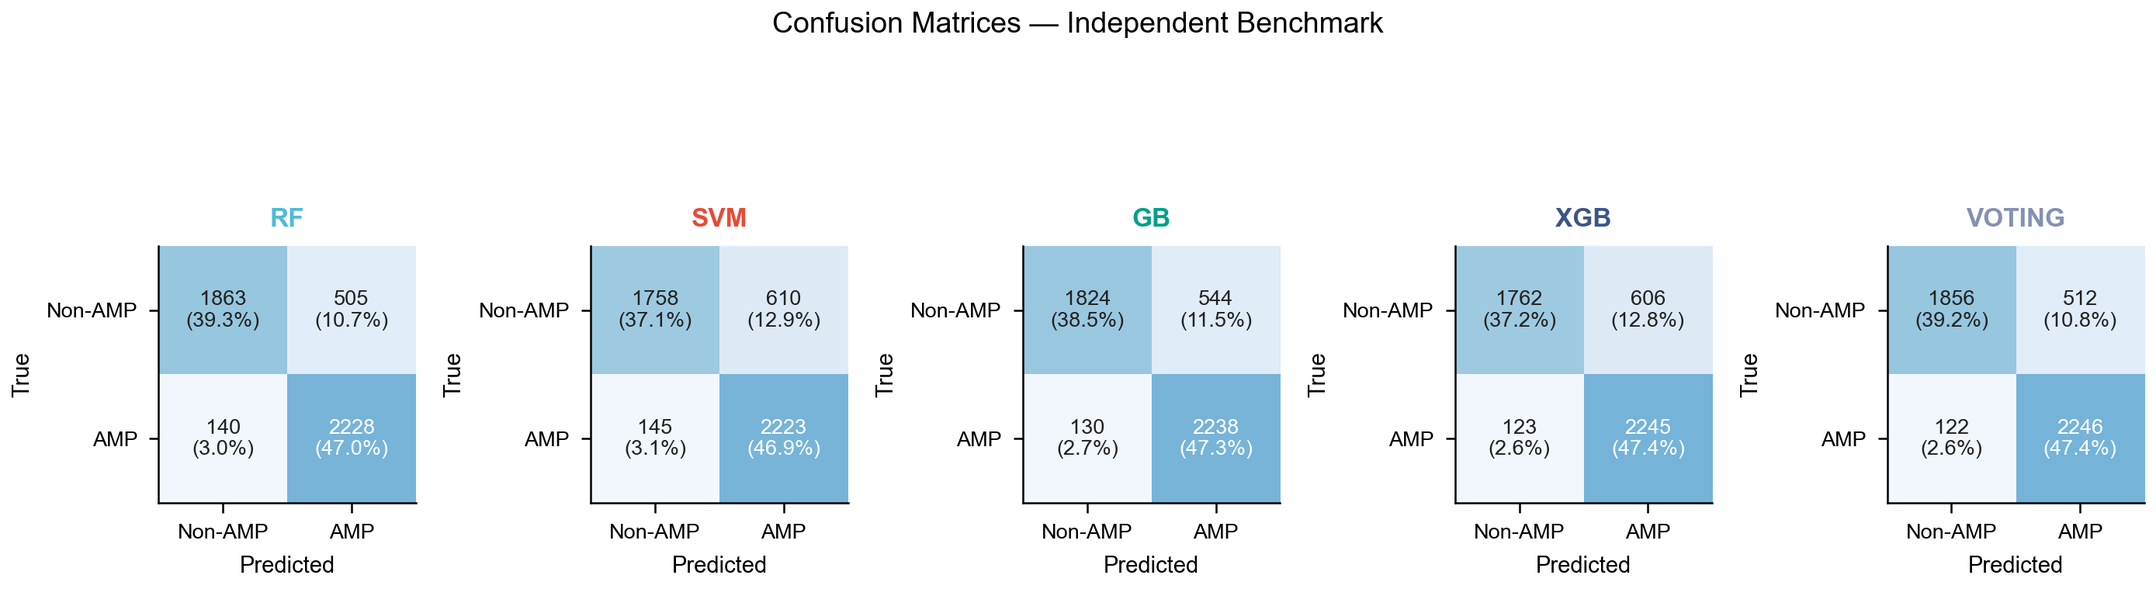
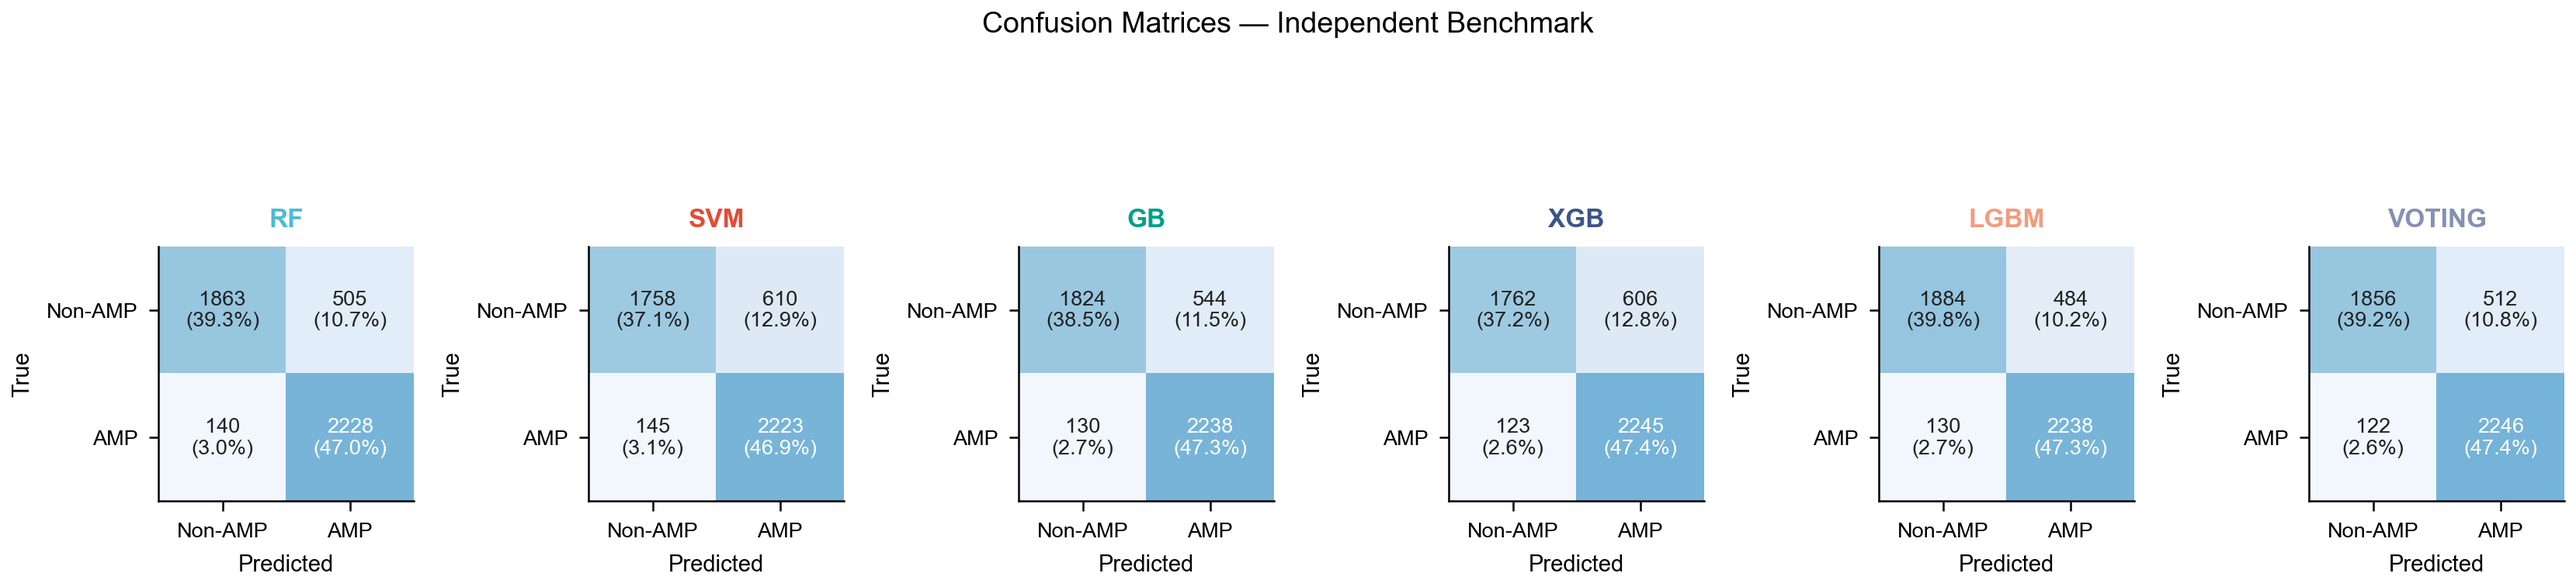
feat: add LGBM to benchmark; update Table 7 and figures

diff --git a/model_training/benchmark.py b/model_training/benchmark.py
@@ -90,6 +90,7 @@ COLORS = {
     "SVM":    "#E64B35",
     "GB":     "#00A087",
     "XGB":    "#3C5488",
+    "LGBM":   "#F39B7F",
     "VOTING": "#8491B4",
 }
 LINESTYLES = {
@@ -97,10 +98,11 @@ LINESTYLES = {
     "SVM":    (0, (5, 1)),
     "GB":     "-.",
     "XGB":    ":",
+    "LGBM":   (0, (3, 1, 1, 1)),
     "VOTING": (0, (1, 1)),
 }
 ALPHA = 0.85
-MODELS_ORDERED = ["RF", "SVM", "GB", "XGB", "VOTING"]
+MODELS_ORDERED = ["RF", "SVM", "GB", "XGB", "LGBM", "VOTING"]
 
 # ---------------------------------------------------------------------------
 # Utilities
@@ -232,6 +234,7 @@ SCALER_MAP = {
     "svm":    "std",
     "gb":     "robust",
     "xgb":    "robust",
+    "lgbm":   "robust",
     "voting": "raw",
 }
 

diff --git a/README.md b/README.md
@@ -448,9 +448,10 @@ Outputs saved to `benchmarking/`:
 | SVM | 0.9432 | 0.6947 | 0.8548 | 0.7847 | 0.9388 | 0.7424 | 0.47 |
 | GB | 0.9351 | 0.7266 | 0.8691 | 0.8045 | 0.9451 | 0.7703 | 0.55 |
 | XGB | 0.9300 | 0.7070 | 0.8603 | 0.7874 | 0.9481 | 0.7441 | 0.48 |
+| LGBM | 0.9480 | 0.7491 | 0.8794 | 0.8224 | 0.9449 | 0.7991 | 0.71 |
 | VOTING | 0.9503 | 0.7424 | 0.8763 | 0.8144 | 0.9485 | 0.7838 | 0.56 |
 
-The voting ensemble achieves the highest AUC-ROC (0.950) and MCC (0.742) on the independent benchmark. LGBM is not listed as a standalone entry here because it was not part of the original benchmark run; it contributes to the VOTING ensemble score. All models show a drop in MCC relative to the internal test set (0.695-0.742 vs. 0.839-0.859). This is expected: the benchmark sequences come from a different source distribution. Recall remains high across all models (0.939-0.949), indicating consistent AMP sensitivity. Specificity is lower (0.742-0.787), reflecting the greater difficulty of rejecting non-AMP sequences from out-of-distribution data. RF achieves the best specificity (0.787) among the single models.
+LGBM achieves the highest MCC (0.749) and specificity (0.799) among all individual models on the independent benchmark, and the highest AUC-ROC among individual models (0.948). The voting ensemble reaches the highest overall AUC-ROC (0.950) by aggregating probability estimates across all five models. All models show a drop in MCC relative to the internal test set (0.695-0.855 vs. 0.839-0.859 on the internal set). This is expected: the benchmark sequences come from a different source distribution. Recall remains high across all models (0.939-0.949), indicating consistent AMP sensitivity. Specificity is lower (0.742-0.799), reflecting the greater difficulty of rejecting non-AMP sequences from out-of-distribution data.
 
 ### Comparison with AMPidentifier beta
 
@@ -478,7 +479,6 @@ The gain from beta to v2.0 (MCC +0.079 for the voting ensemble) is primarily att
 
 The following tasks are planned for future development.
 
-- [ ] **Benchmark LGBM standalone**: re-run `model_training/benchmark.py` after adding LGBM to `MODELS_ORDERED` and `SCALER_MAP`. Update Table 7 with per-model LGBM benchmark metrics.
 - [ ] **Repository cleanup**: remove stale artefacts, enforce directory conventions, and verify reproducibility from a clean clone. Prompt for Claude Code session:
 
   > Review and clean the AMPidentifier 2.0 repository. Specifically: (1) list all files that are not referenced by any script and flag candidates for deletion; (2) confirm that `model_training/saved_model/` is obsolete (all production models are now in `model_training/tuned_model/`) and remove it if so; (3) verify that `__pycache__` directories and `*.pyc` files are covered by `.gitignore`; (4) check that `requirements.txt` lists every import found in the source files and remove any unused dependency; (5) confirm that the benchmark FASTA at `benchmarking/benchmark.fasta` and all figures under `model_training/tuned_model/figures/` and `benchmarking/` are either tracked by git or explicitly excluded; (6) report any broken relative paths in README.md. Do not delete anything without listing it first and waiting for confirmation.
